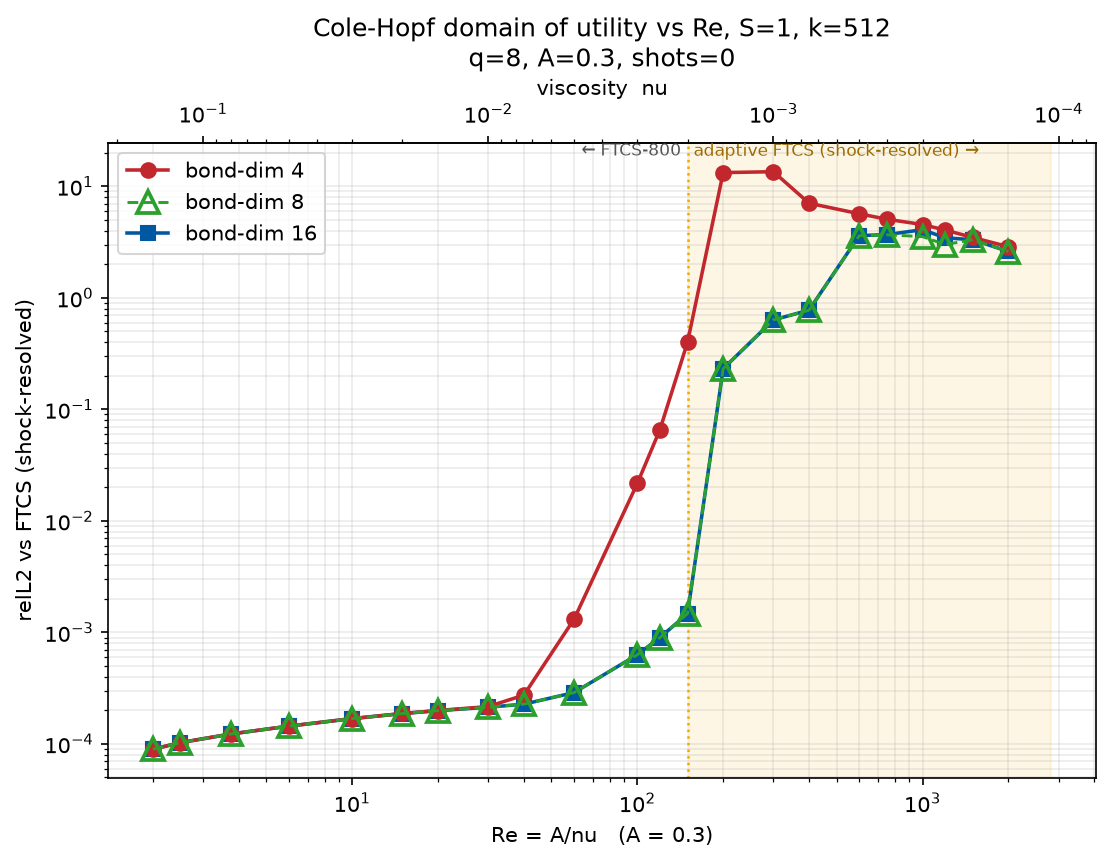
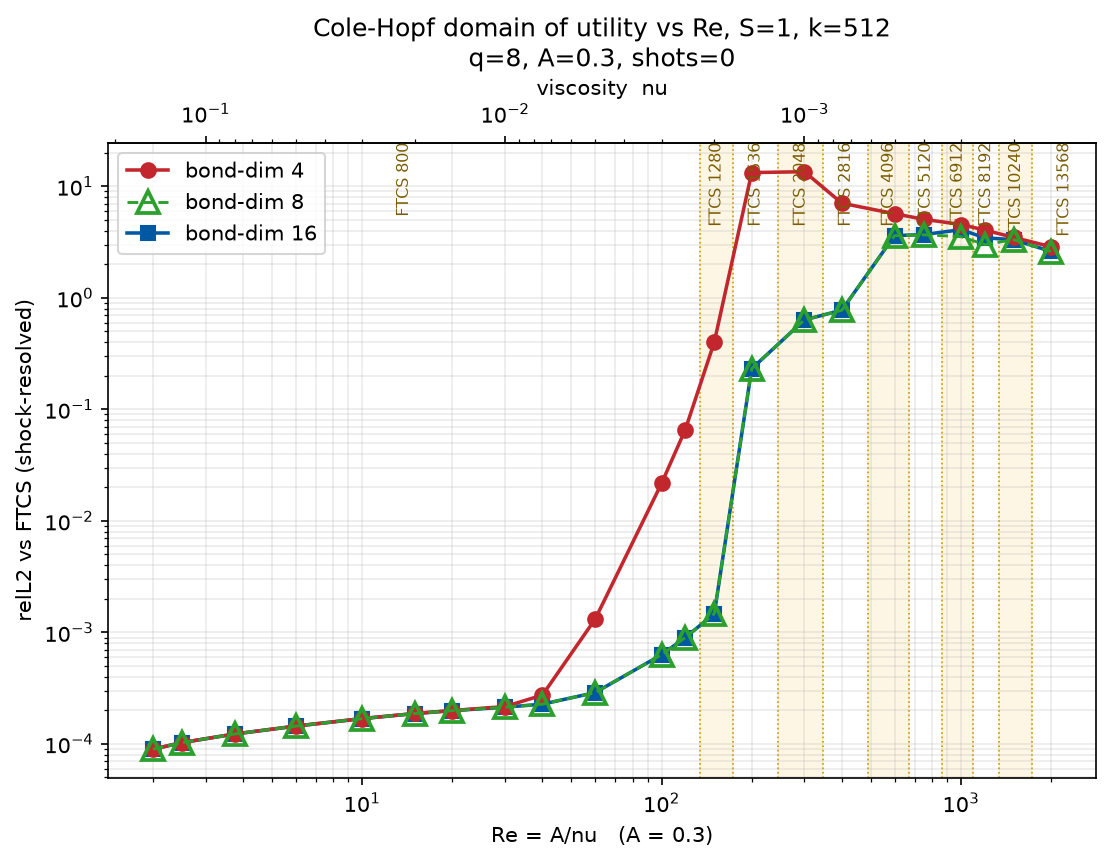
Fig5 scorer: per-Re FTCS banding + regenerated relL2-vs-Re plot
Replace the single FTCS-800 -> adaptive boundary shading with per-Re bands labelled by ref-points (FTCS 800 up to Re 120, then adaptive 1280..13568 for Re >= 150), merging equal-ref neighbours. Regenerate relL2_vs_Re_single.png from the updated scorer.

diff --git a/burgers-ch-lbm/cases/score_nu_domain_single.py b/burgers-ch-lbm/cases/score_nu_domain_single.py
@@ -153,12 +153,9 @@ def main() -> None:
               if c["method"] == "ftcs_reference" and c["u"] is not None}
     ch = [c for c in cases if c["method"] == "cole_hopf_circuit"]
 
-    # Reference-switch boundary: lowest Re whose FTCS truth used a finer
-    # grid than the baseline 800 (i.e. the adaptive shock-resolved refs).
-    # Shaded on the plot so the FTCS-800 -> adaptive switch is explicit.
-    finer = [A_AMPLITUDE / nu for nu, t in truths.items()
-             if nu and (t.get("ref_points") or 0) > 800]
-    switch_re = min(finer) if finer else None
+    # Per-Re FTCS reference (ref-points), for the shaded bands on the plot.
+    re_ref = sorted((A_AMPLITUDE / nu, (t.get("ref_points") or 0))
+                    for nu, t in truths.items() if nu)
 
     if not ch:
         raise SystemExit(f"No CH cases under {args.root}")
@@ -244,16 +241,35 @@ def main() -> None:
     ax.set_xscale("log")
     ax.set_yscale("log")
 
-    # Shade the Re range that uses the adaptive shock-resolved FTCS (all
-    # Re >= switch_re) vs the baseline FTCS-800 region (Re < switch_re).
-    if switch_re is not None:
-        xmax = ax.get_xlim()[1]
-        ax.axvspan(switch_re, xmax, color="#f2a900", alpha=0.10, zorder=0)
-        ax.axvline(switch_re, color="#f2a900", lw=1.2, ls=":", zorder=1)
-        ax.text(switch_re * 1.05, ax.get_ylim()[1], "adaptive FTCS (shock-resolved) →",
-                color="#9c6b00", fontsize=8, va="top", ha="left")
-        ax.text(switch_re * 0.95, ax.get_ylim()[1], "← FTCS-800",
-                color="#555555", fontsize=8, va="top", ha="right")
+    # Shade the plot into bands by which FTCS reference (ref-points) each
+    # Re region uses.  Each band spans the midpoints between adjacent Re
+    # points; adjacent bands with the same ref-points merge, so the whole
+    # Re<150 stretch reads as one "FTCS 800" band and each finer ref gets
+    # its own band labelled "FTCS <ref-points>".
+    if re_ref:
+        xlo, xhi = ax.get_xlim()
+        res = [r for r, _ in re_ref]
+        # geometric-mean edges between neighbours (log x-axis)
+        edges = [xlo] + [
+            (res[i] * res[i + 1]) ** 0.5 for i in range(len(res) - 1)
+        ] + [xhi]
+        # merge consecutive same-ref bands
+        bands = []  # (left, right, ref_points)
+        for i, (_, rp) in enumerate(re_ref):
+            lft, rgt = edges[i], edges[i + 1]
+            if bands and bands[-1][2] == rp:
+                bands[-1] = (bands[-1][0], rgt, rp)
+            else:
+                bands.append((lft, rgt, rp))
+        ytop = ax.get_ylim()[1]
+        for j, (lft, rgt, rp) in enumerate(bands):
+            if j % 2:  # shade alternating bands so boundaries read clearly
+                ax.axvspan(lft, rgt, color="#f2a900", alpha=0.10, zorder=0)
+            if j:      # boundary line between refs
+                ax.axvline(lft, color="#cc9a00", lw=0.8, ls=":", zorder=1)
+            ax.text((lft * rgt) ** 0.5, ytop, f"FTCS {rp}",
+                    color="#7a5c00", fontsize=7.5, rotation=90,
+                    va="top", ha="center")
 
     ax.set_xlabel("Re = A/nu   (A = 0.3)")
     ax.set_ylabel("relL2 vs FTCS (shock-resolved)")
